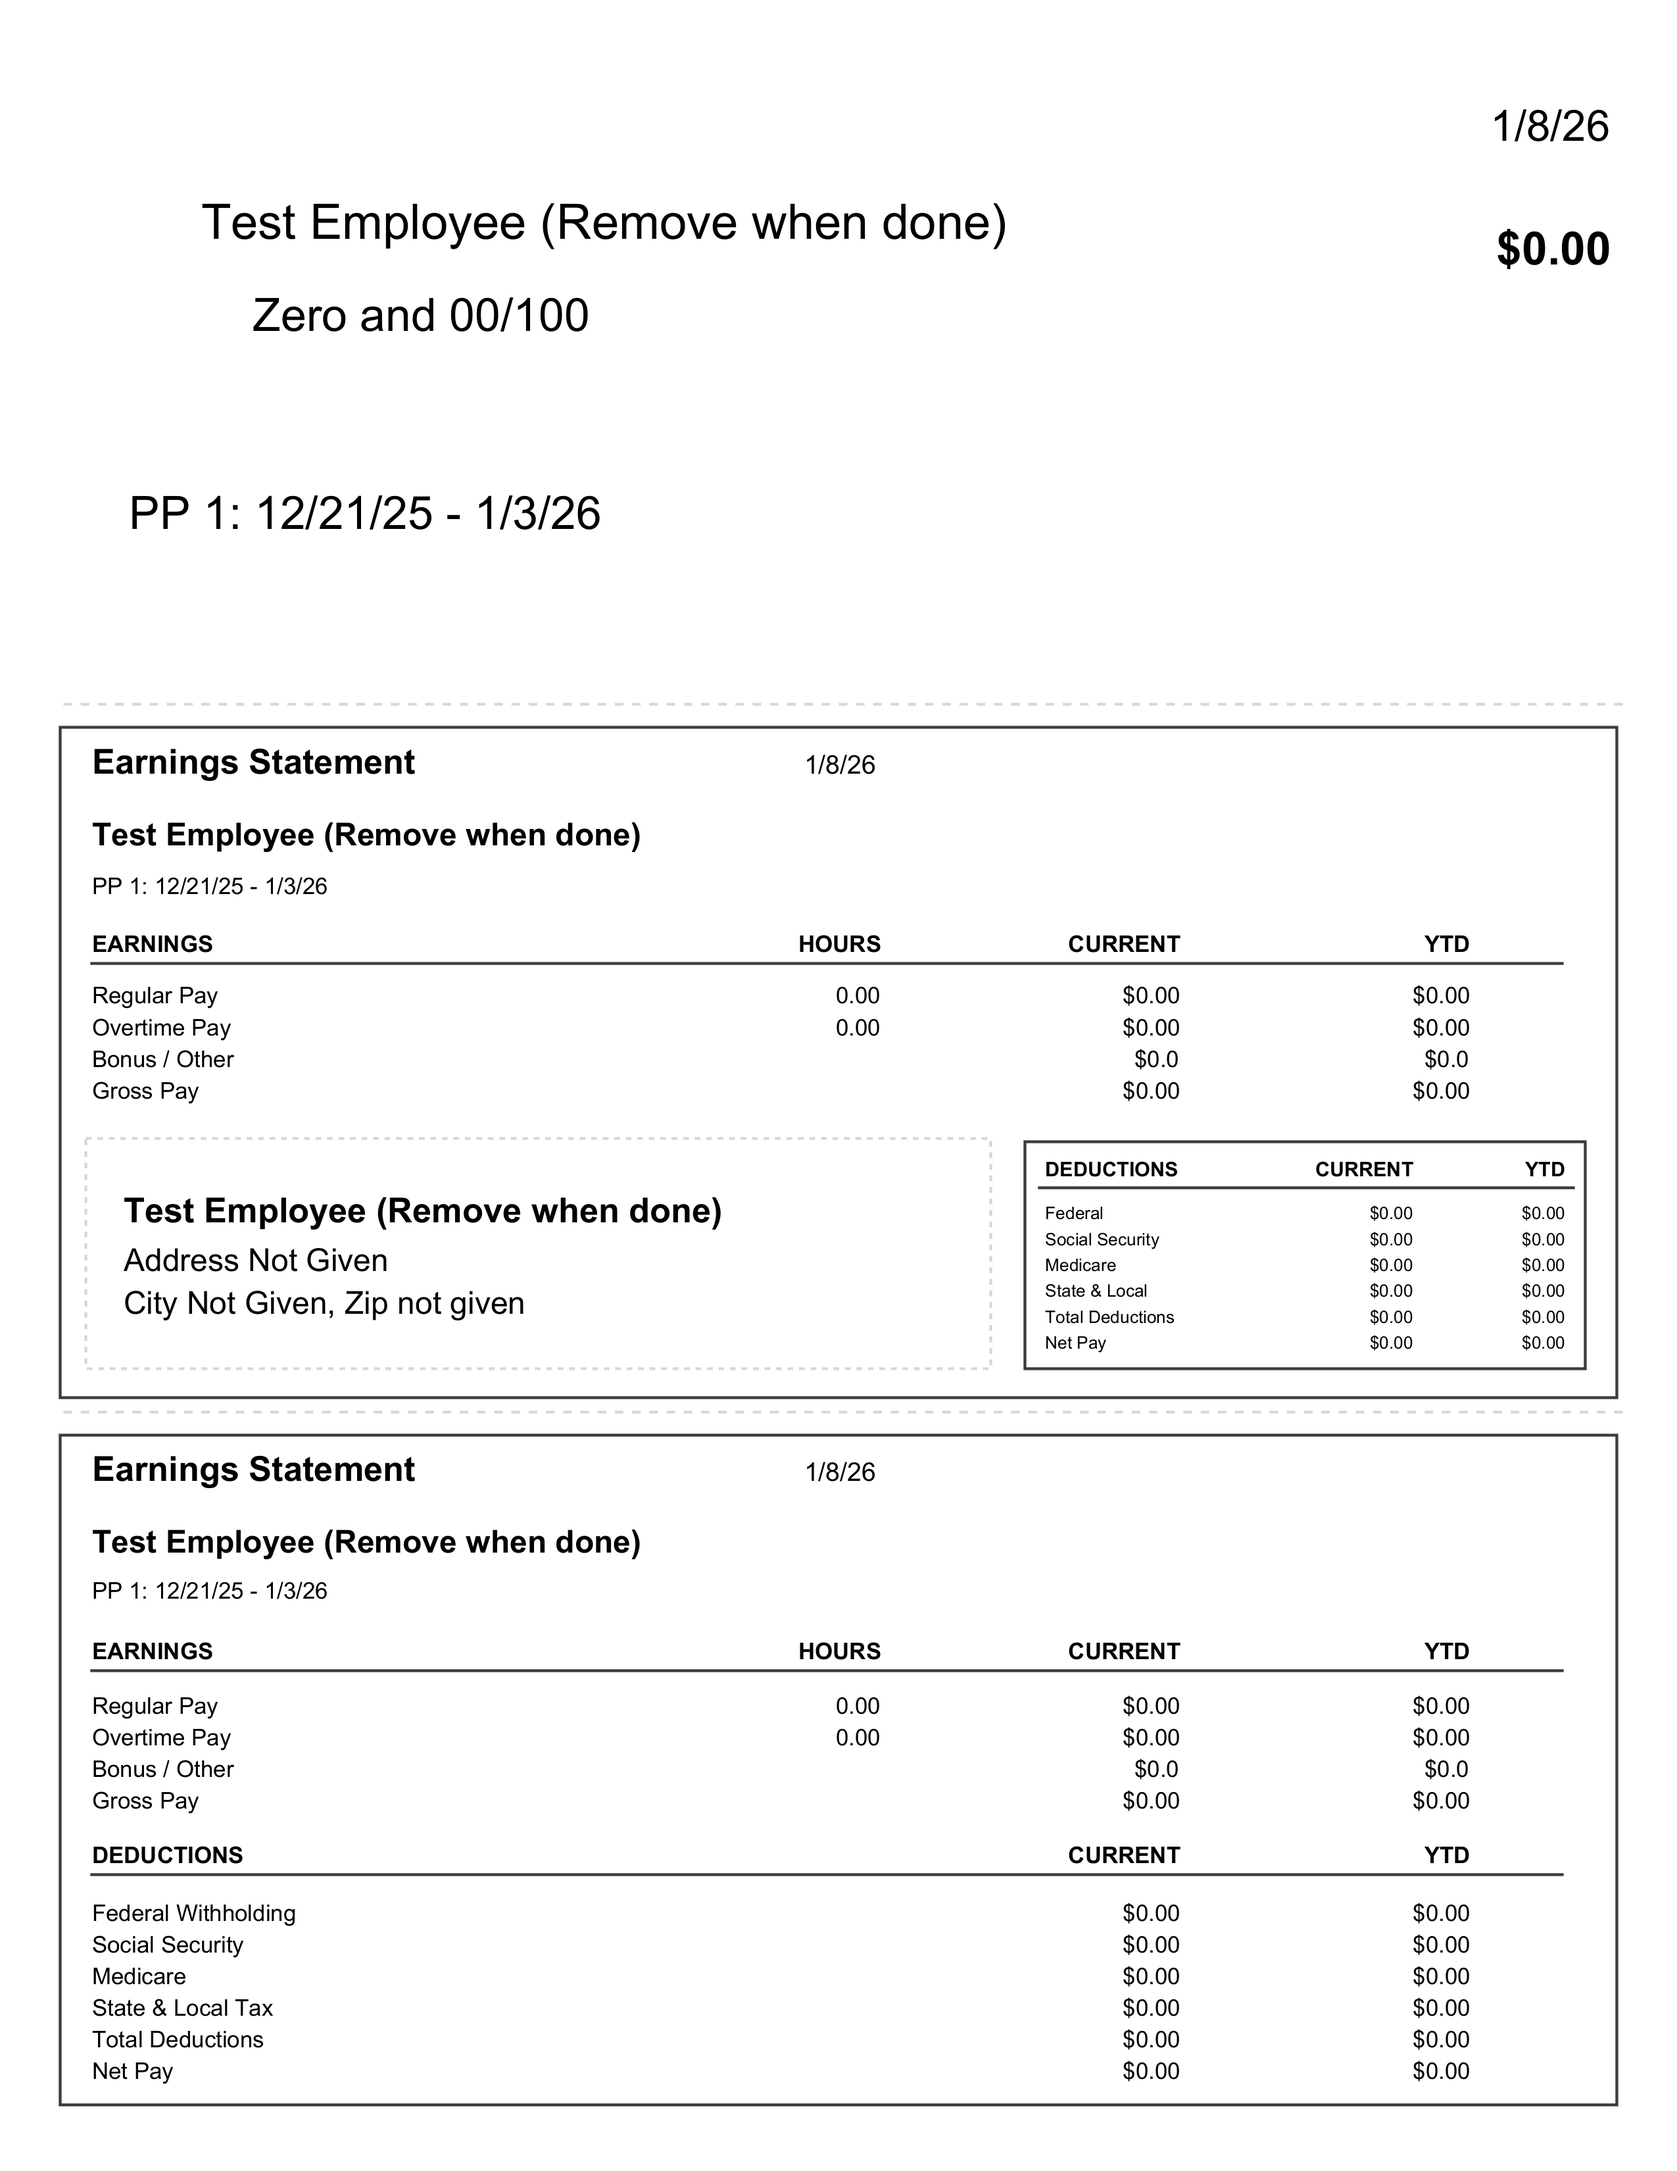
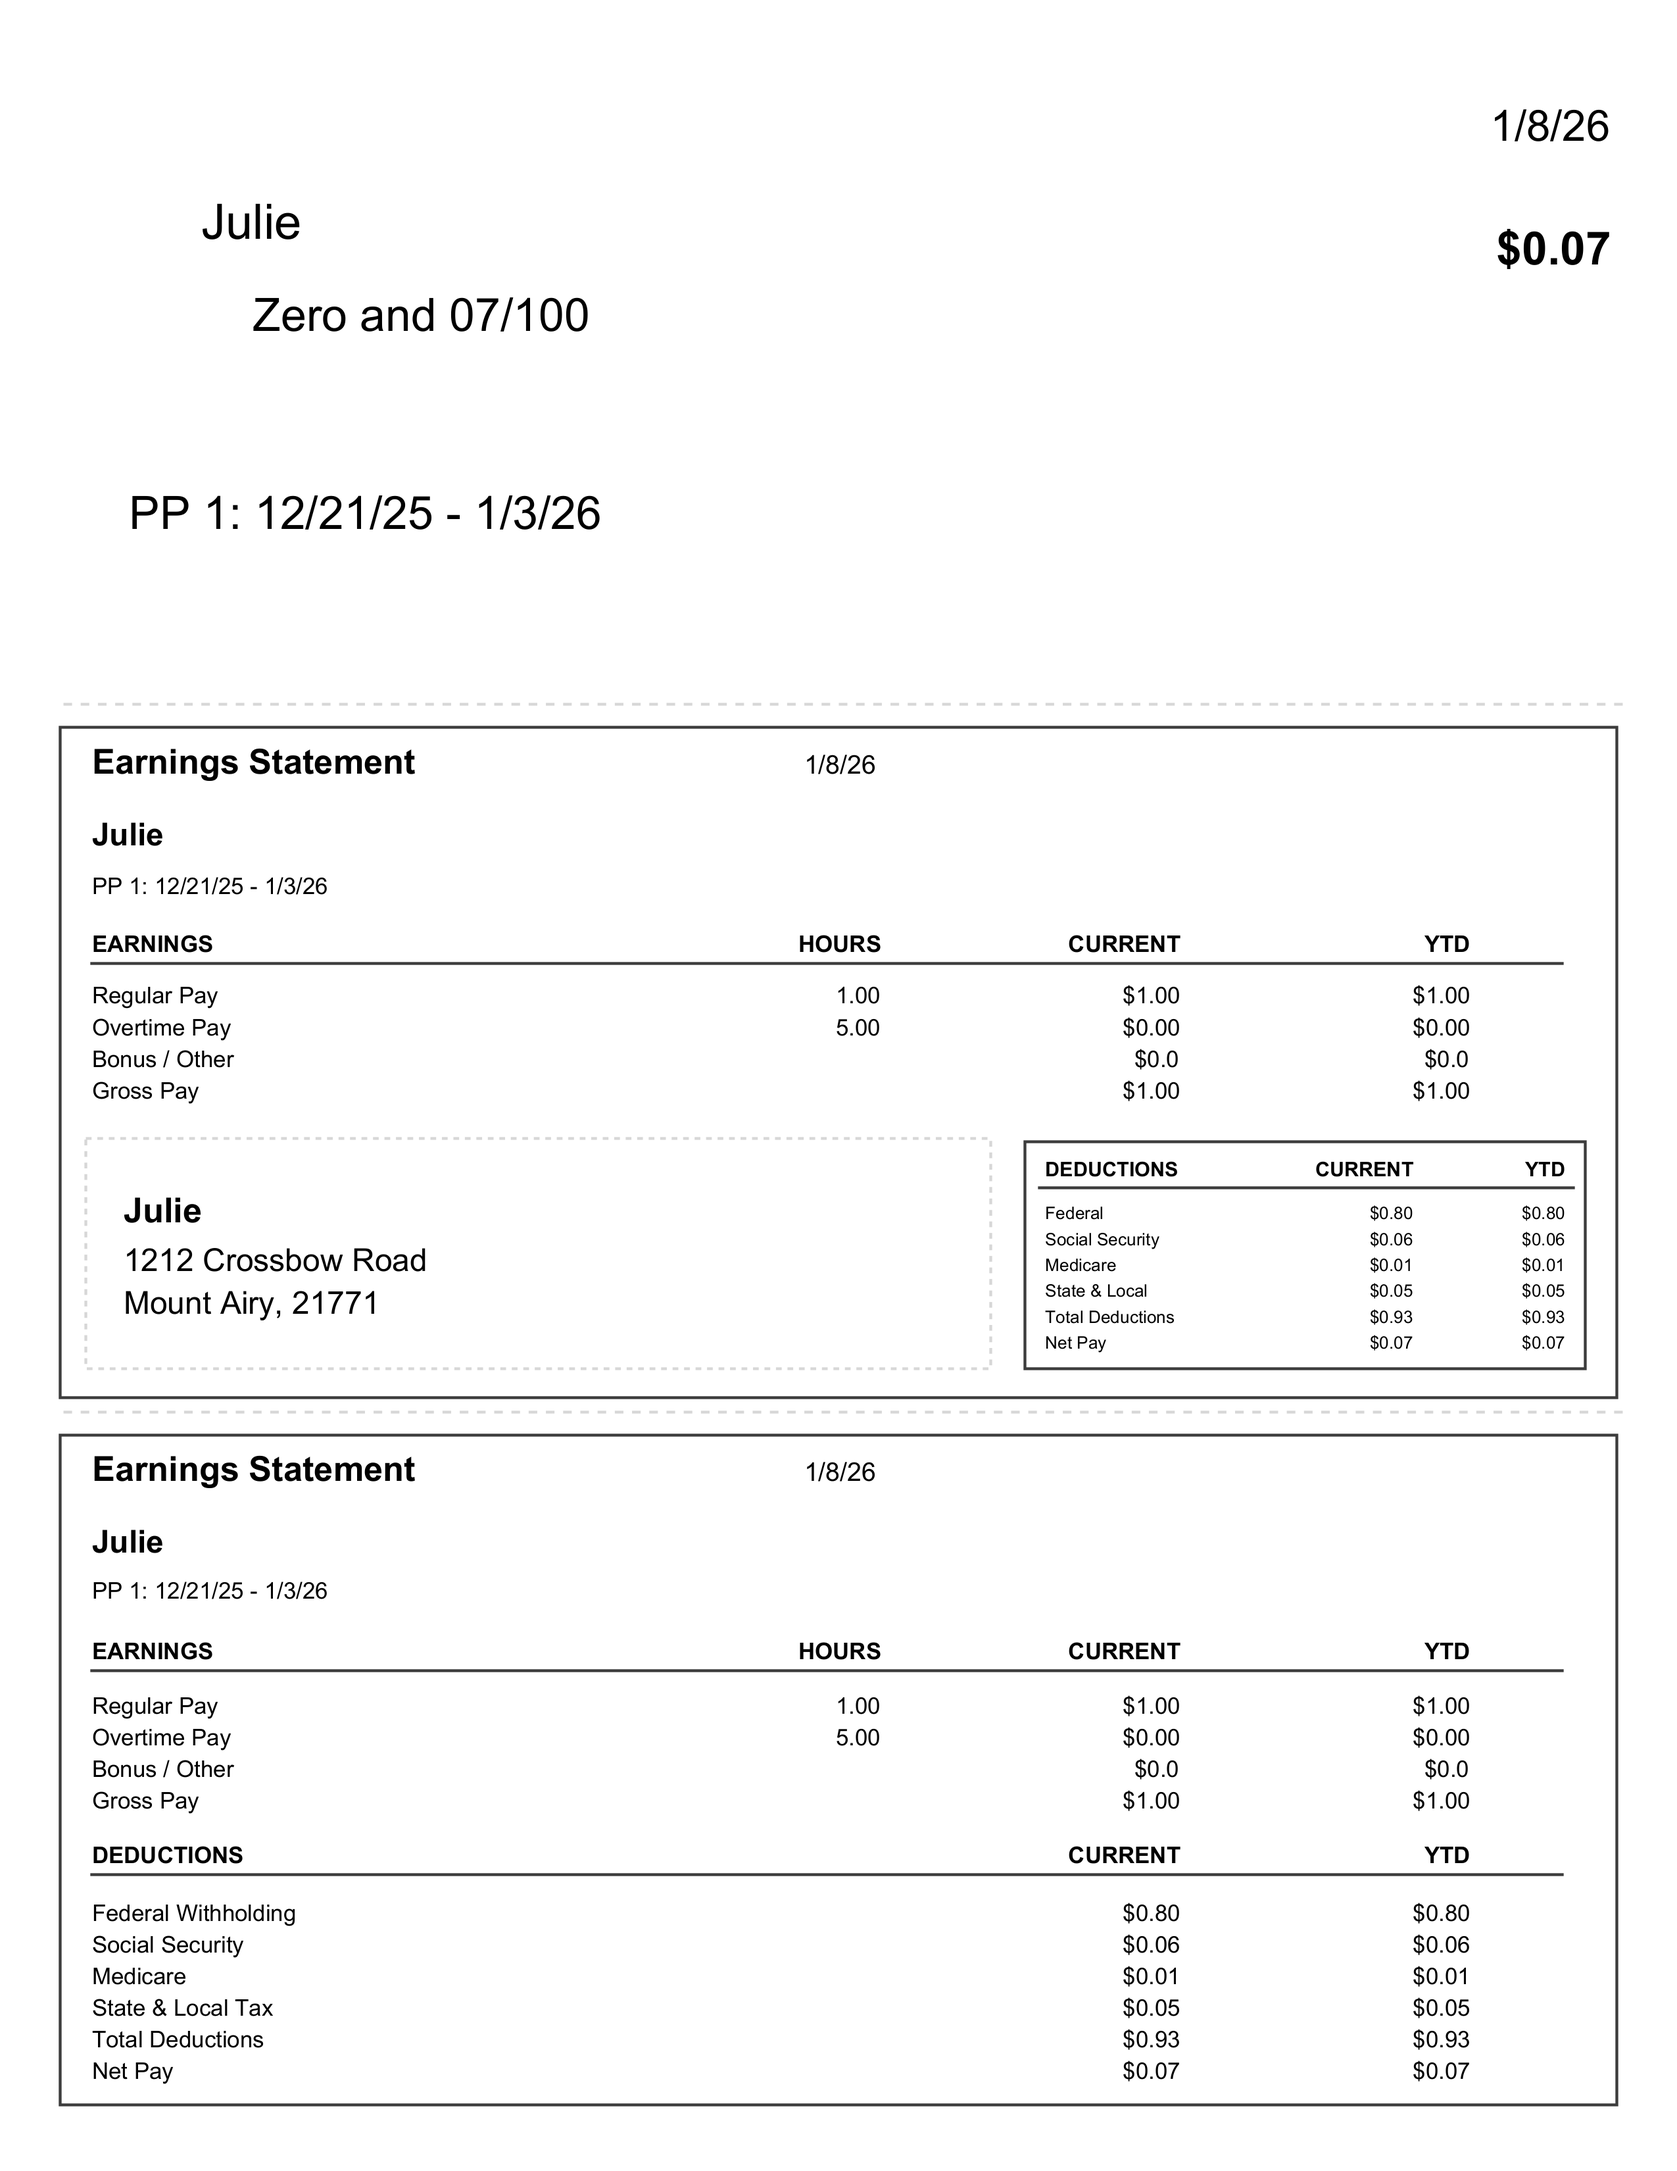
Added Address, City, and Zip

diff --git a/untitled/src/PayrollGUI.java b/untitled/src/PayrollGUI.java
@@ -226,6 +226,11 @@ public class PayrollGUI {
                         "Generate Check"
                 );
 
+        JButton makeAddressButton =
+                new JButton(
+                        "Add/Change Address"
+                );
+
 
         bottomPanel.add(
                 changeHourlyRateButton
@@ -241,6 +246,10 @@ public class PayrollGUI {
 
         bottomPanel.add(
                 makeCheckButton
+        );
+
+        bottomPanel.add(
+                makeAddressButton
         );
 
 
@@ -288,6 +297,10 @@ public class PayrollGUI {
 
         setupMakeCheckButton(
                 makeCheckButton
+        );
+
+        setupMakeAddressButton(
+                makeAddressButton
         );
 
 
@@ -416,30 +429,58 @@ public class PayrollGUI {
 
         button.addActionListener(
                 e -> {
-
-                    String name =
-                            JOptionPane.showInputDialog(
-                                    frame,
-                                    "Enter employee name:"
-                            );
-
-
-                    if (
-                            name == null ||
-                                    name.trim().isEmpty()
-                    ) {
-
+                    // Get Name
+                    String name = JOptionPane.showInputDialog(frame, "Enter employee name:");
+                    if (name == null || name.trim().isEmpty()) {
                         return;
                     }
 
+                    // Get Address
+                    String address = JOptionPane.showInputDialog(frame, "Enter street address:");
+                    if (address == null || address.trim().isEmpty()) {
+                        return;
+                    }
 
+                    // Get City
+                    String city = JOptionPane.showInputDialog(frame, "Enter city:");
+                    if (city == null || city.trim().isEmpty()) {
+                        return;
+                    }
+
+                    // Get Zip Code
+                    String zipCode = JOptionPane.showInputDialog(frame, "Enter ZIP code:");
+                    if (zipCode == null || zipCode.trim().isEmpty()) {
+                        return;
+                    }
+
+                    // Confirm Information
+                    String message =
+                            "Is this information correct?\n\n" +
+                                    "Name: " + name.trim() + "\n" +
+                                    "Address: " + address.trim() + "\n" +
+                                    "City: " + city.trim() + "\n" +
+                                    "ZIP Code: " + zipCode.trim();
+
+
+                    int result = JOptionPane.showConfirmDialog(
+                            frame,
+                            message,
+                            "Confirm Employee Information",
+                            JOptionPane.YES_NO_OPTION,
+                            JOptionPane.QUESTION_MESSAGE
+                    );
+
+                    // User clicked No
+                    if (result != JOptionPane.YES_OPTION) {
+                        return;
+                    }
                     saveCurrentEmployee();
-
-
-
                     employeeManager.addEmployee(
                             new Employee(
-                                    name.trim()
+                                    name.trim(),
+                                    address.trim(),
+                                    city.trim(),
+                                    zipCode.trim()
                             )
                     );
                     FileData.save(employeeManager);
@@ -553,6 +594,67 @@ public class PayrollGUI {
         );
     }
 
+    // =========================
+    // CHANGE EMPLOYEE ADDRESS BUTTON
+    // =========================
+    private void setupMakeAddressButton(
+            JButton makeAddressButton
+    ) {
+
+        makeAddressButton.addActionListener(
+                e -> {
+
+                    Employee employee =
+                            employeeManager.getCurrentEmployee();
+
+
+                    // Get Address
+                    String address = JOptionPane.showInputDialog(
+                            frame,
+                            "Enter street address:",
+                            employee.getAddress()
+                    );
+
+                    if (address == null || address.trim().isEmpty()) {
+                        return;
+                    }
+
+
+                    // Get City
+                    String city = JOptionPane.showInputDialog(
+                            frame,
+                            "Enter city:",
+                            employee.getCity()
+                    );
+
+                    if (city == null || city.trim().isEmpty()) {
+                        return;
+                    }
+
+
+                    // Get ZIP Code
+                    String zipCode = JOptionPane.showInputDialog(
+                            frame,
+                            "Enter ZIP code:",
+                            employee.getZipCode()
+                    );
+
+                    if (zipCode == null || zipCode.trim().isEmpty()) {
+                        return;
+                    }
+
+
+                    // Save Information
+                    employee.setAddress(address.trim());
+                    employee.setCity(city.trim());
+                    employee.setZipCode(zipCode.trim());
+
+
+                    // Save to File
+                    FileData.save(employeeManager);
+                }
+        );
+    }
 
     // =========================
     // HOURLY RATE BUTTON

diff --git a/untitled/src/Employee.java b/untitled/src/Employee.java
@@ -19,14 +19,14 @@ public class Employee implements Serializable{
     String fed_rate;
     String address;
 
-    public Employee(String name) {
+    public Employee(String name, String address, String city, String zip) {
 
         this.name = name;
 
         fed_rate = "0";
-        address = "Address Not Given";
-        city = "City Not Given";
-        zip = "Zip not given";
+        this.address = address;
+        this.city = city;
+        this.zip = zip;
 
         // Make the array blank by default on all categories
         for (int i = 0; i < num_rows; i++) {
@@ -42,5 +42,28 @@ public class Employee implements Serializable{
 
             extra[i] = "";
         }
+    }
+    public String getAddress() {
+        return address;
+    }
+
+    public void setAddress(String address) {
+        this.address = address;
+    }
+
+    public String getCity() {
+        return city;
+    }
+
+    public void setCity(String city) {
+        this.city = city;
+    }
+
+    public String getZipCode() {
+        return zip;
+    }
+
+    public void setZipCode(String zip) {
+        this.zip = zip;
     }
 }

diff --git a/untitled/src/Main.java b/untitled/src/Main.java
@@ -12,10 +12,11 @@ public class Main {
             if(employee_manager == null) {
                 employee_manager = new EmployeeManager();
 
-                employee_manager.addEmployee(new Employee("Test Employee (Remove when done)"));
+                employee_manager.addEmployee(new Employee("Test Employee (Remove when done)", "Dummy Address", "Dummy City", "Dummy Zip #"));
             }
 
             new PayrollGUI(employee_manager);
         });
+
     }
 }

diff --git a/untitled/src/EmployeeManager.java b/untitled/src/EmployeeManager.java
@@ -76,4 +76,5 @@ public class EmployeeManager implements Serializable {
     }
 
 
+
 }
